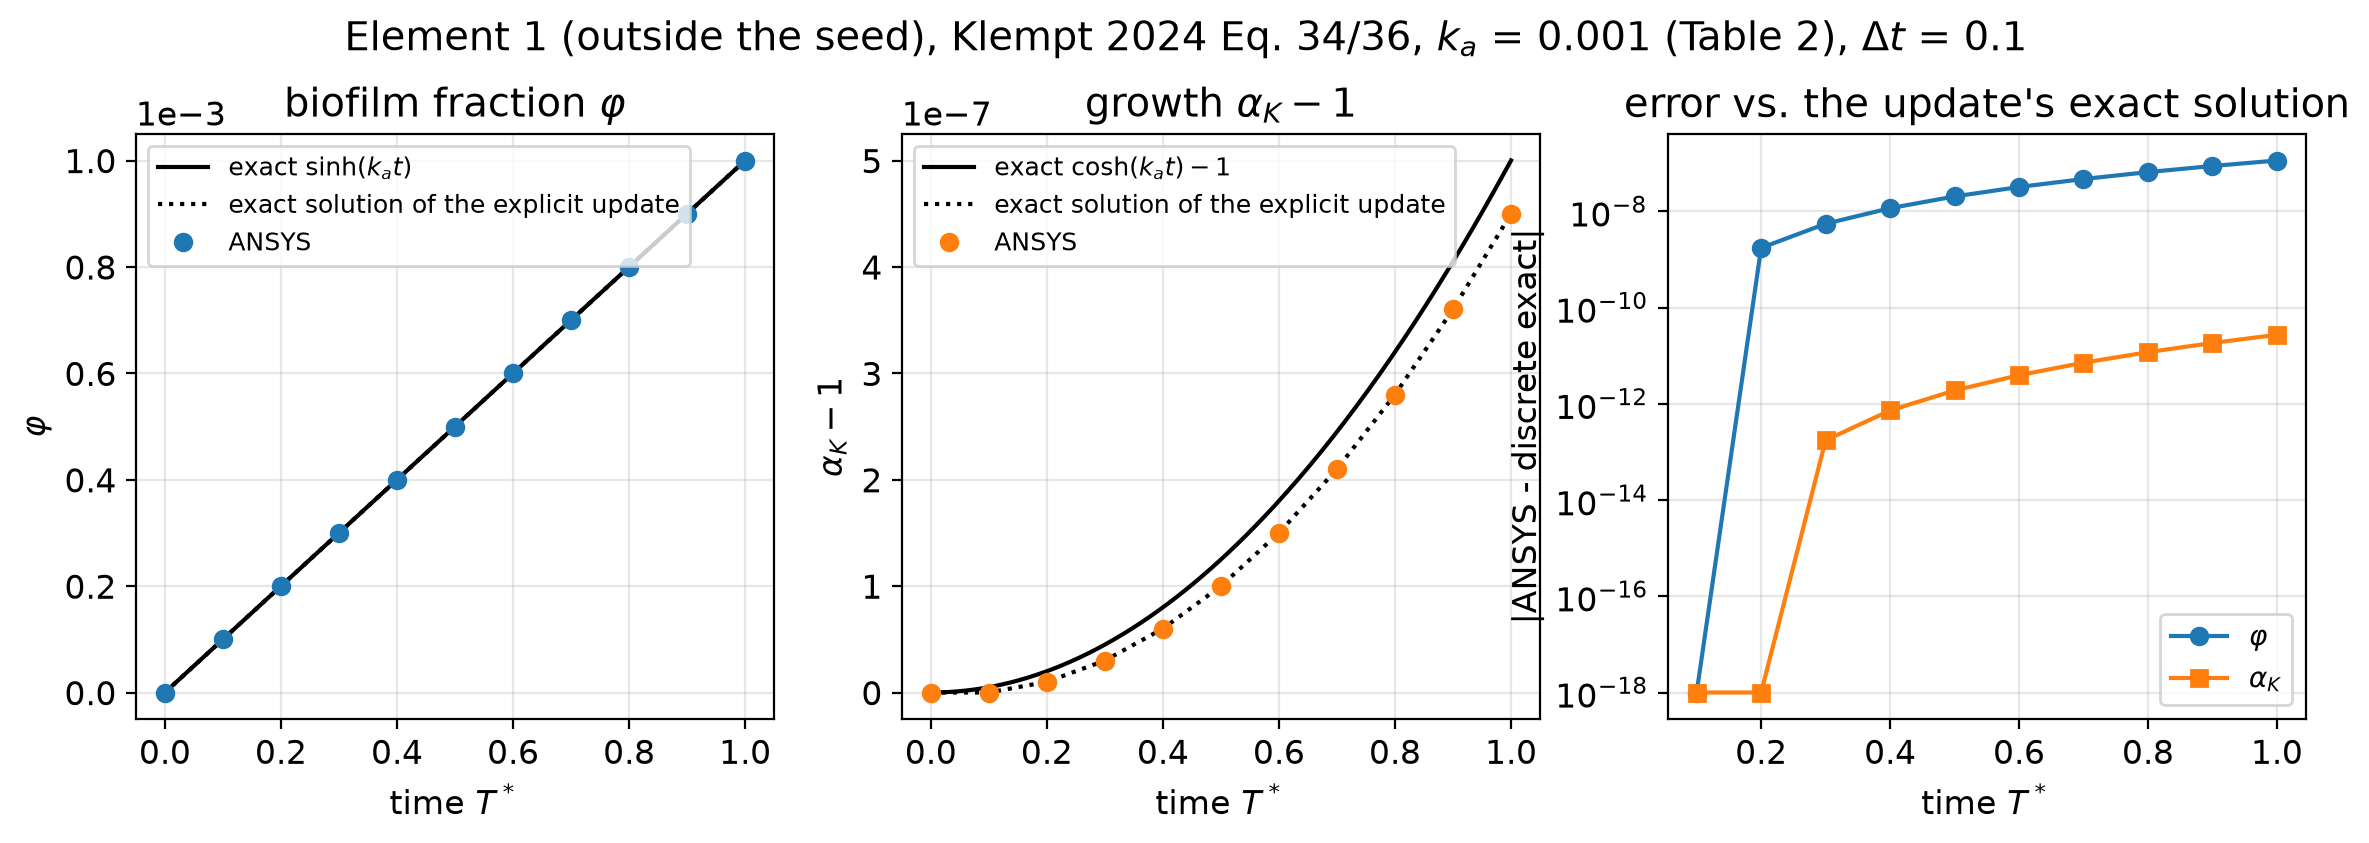
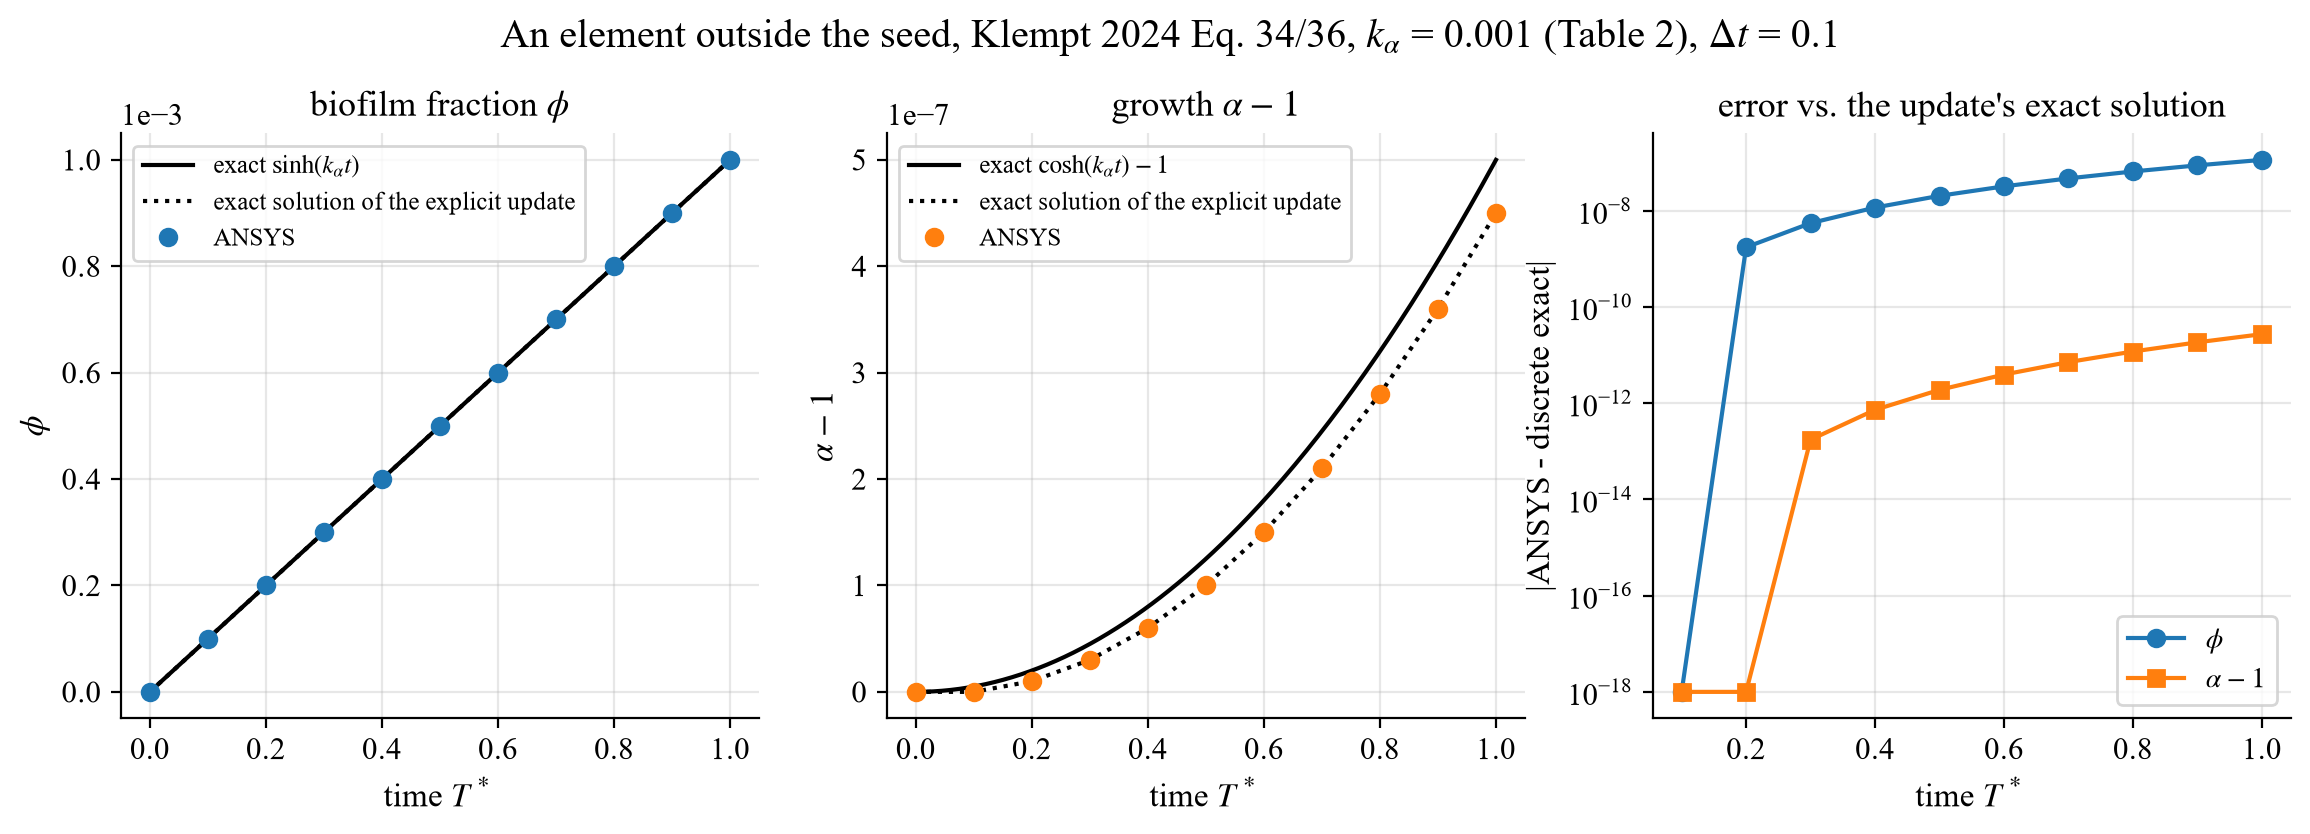
Thesis ch4 figures 4.4, 4.8, 4.9 redrawn in Times; alpha - 1 notation; internal names removed from the titles

diff --git a/ansys_usermat/apdl/plot_cylinder_alpha_sweep.py b/ansys_usermat/apdl/plot_cylinder_alpha_sweep.py
@@ -61,7 +61,7 @@ def main(argv=None):
     axL.plot(xs, umax[0] / alphas[0] * xs, ls=(0, (4, 3)), lw=1.2, color=INK2,
              zorder=1)
     xl = alphas.max() * 0.72
-    axL.text(xl + 0.004, umax[0] / alphas[0] * xl, "linear from $\\alpha$=0.01",
+    axL.text(xl + 0.004, umax[0] / alphas[0] * xl, "linear from $\\alpha-1$ = 0.01",
              ha="left", va="top", fontsize=8, color=INK2)
     axL.axvspan(0.01, 0.015, color=GRID, zorder=0)
     axL.text(0.0135, umax.max() * 0.55, "old limit\n(floating\nlayer)",
@@ -73,19 +73,19 @@ def main(argv=None):
             axL.annotate(f"{u:.2e}", (al, u), xytext=(-6, 6),
                          textcoords="offset points", ha="right", fontsize=7.5,
                          color=INK2)
-    axL.set_xlabel("prescribed growth $\\alpha$")
+    axL.set_xlabel("prescribed growth $\\alpha-1$")
     axL.set_ylabel("max radial displacement $u_r$")
     axL.set_xlim(0, alphas.max() * 1.08)
     axL.set_ylim(0, umax.max() * 1.15)
-    axL.set_title("All converge (0 errors) up to $\\alpha$ = 0.2",
+    axL.set_title("all runs reach the end time, $\\alpha-1\\leq0.2$",
                   fontsize=10, color=INK)
 
     # ---- right: u_r / alpha across the arc ----
     for (al, u), col in zip(runs, SEQ):
-        axR.plot(THETA, u / al, lw=2, color=col, label=f"$\\alpha$ = {al:g}")
+        axR.plot(THETA, u / al, lw=2, color=col, label=f"$\\alpha-1$ = {al:g}")
     axR.set_xlabel("$\\theta$ across the arc  [deg]")
-    axR.set_ylabel("$u_r / \\alpha$")
-    axR.set_title("Shape of the bulge: uniform, until $\\alpha \\gtrsim 0.1$",
+    axR.set_ylabel("$u_r / (\\alpha-1)$")
+    axR.set_title("radial displacement across the arc",
                   fontsize=10, color=INK)
     axR.legend(frameon=False, fontsize=8, loc="lower center", ncol=5,
                handlelength=1.6, columnspacing=1.0)
@@ -97,9 +97,7 @@ def main(argv=None):
         ax.set_axisbelow(True)
         for s in ("top", "right"):
             ax.spines[s].set_visible(False)
-    fig.suptitle("Bonded two-layer cylinder (2.4k elements), ANSYS 2022 R2, "
-                 "prescribed $\\alpha$", fontsize=10.5, color=INK)
-    fig.tight_layout(rect=(0, 0, 1, 0.94))
+    fig.tight_layout()
     a.out.parent.mkdir(parents=True, exist_ok=True)
     fig.savefig(a.out, dpi=200, facecolor="#fcfcfb")
     print(f"wrote {a.out}")

diff --git a/ansys_usermat/apdl/figs_1005.py b/ansys_usermat/apdl/figs_1005.py
@@ -83,11 +83,11 @@ def fig_exact():
         a.ticklabel_format(axis="y", style="sci", scilimits=(0, 0))
     eb, el = np.abs(bio - dx), np.abs(loc - dy)
     ax[2].semilogy(t[1:], np.maximum(eb[1:], 1e-18), "o-", label=r"$\phi$")
-    ax[2].semilogy(t[1:], np.maximum(el[1:], 1e-18), "s-", label=r"$\alpha$")
+    ax[2].semilogy(t[1:], np.maximum(el[1:], 1e-18), "s-", label=r"$\alpha - 1$")
     ax[2].set(xlabel=r"time $T^*$", ylabel="|ANSYS - discrete exact|",
               title="error vs. the update's exact solution")
     ax[2].legend(fontsize=10)
-    fig.suptitle(rf"Element 1 (outside the seed), Klempt 2024 Eq. 34/36, $k_\alpha$ = {K:g} (Table 2), "
+    fig.suptitle(rf"An element outside the seed, Klempt 2024 Eq. 34/36, $k_\alpha$ = {K:g} (Table 2), "
                  rf"$\Delta t$ = {DT:g}", y=1.03)
     fig.savefig(OUT / "fig1005_exact.png")
     plt.close(fig)
